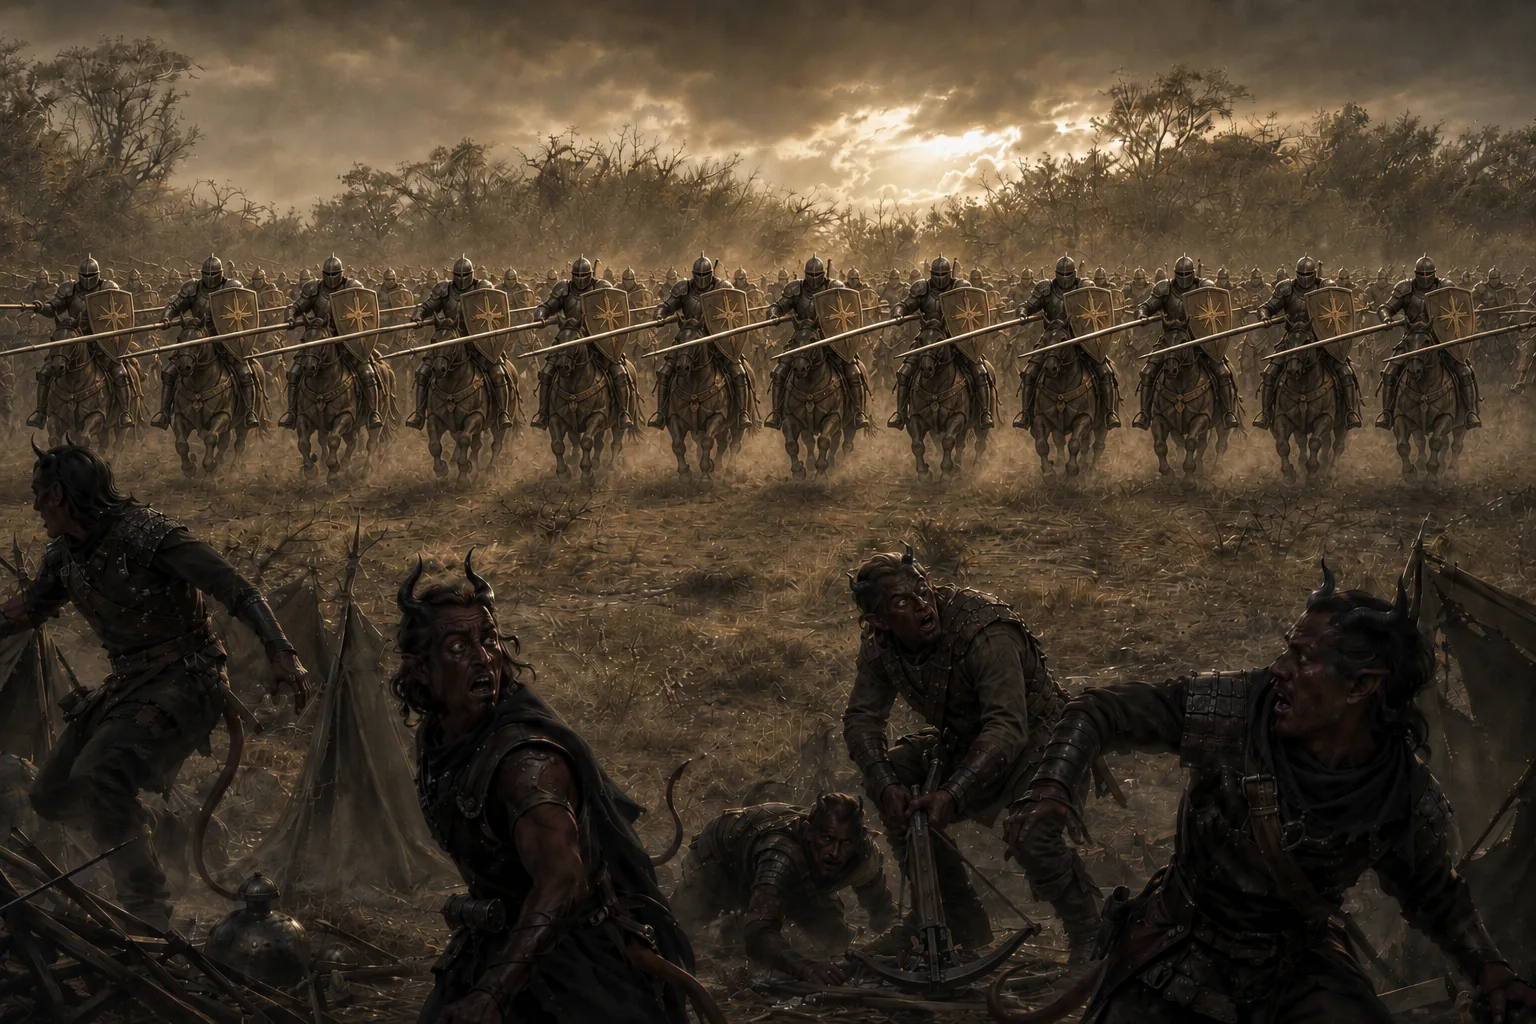
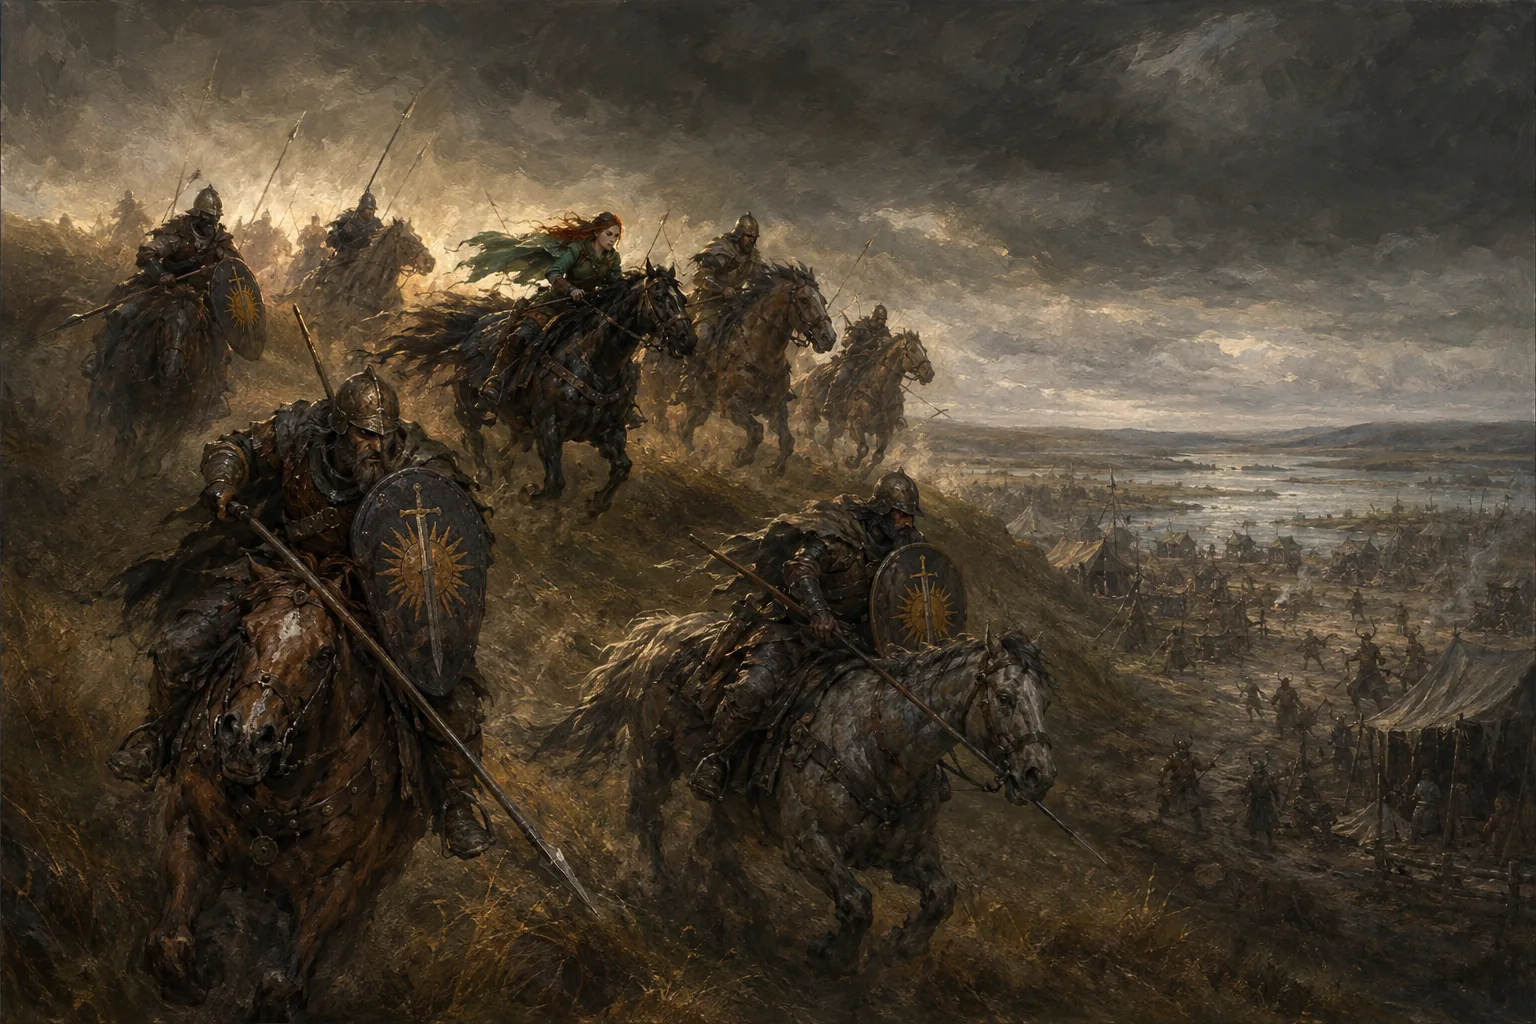
Re-roll the ford charge and put Rabiah back in it
The original was a wall of near-identical knights in one dead-straight
rank spanning the frame, every lance at the same height, and the
commander of the army was not in the picture.

Now eight or nine riders, with the rest of the hundred implied by dust
behind the ridge and lance-points still climbing. Three devices together
break the repetition: an oblique approach so the line recedes into
depth, a hard stagger fore and aft, and per-rider variation of horse
colour, gait and body set. Lances described by joint position rather
than "couched".

Rabiah rides at the crest in Era III kit -- green hooded cloak thrown
back, baldric with the round medallion, uncannily clean against everyone
else's dust -- small in the saddle on a full-sized horse, no lance and no
shield. Rounded human ears confirmed at magnification; shields carry the
sword-and-sun, hilt up.

The moment is the reveal, before contact, with clear ground between the
riders and a camp that is only just turning to look. Lit as grey
overcast with one band of pale gold along the ridge, the camp below in
cold shadow, replacing the old sepia wash.

diff --git a/bible/07-art-reroll-list.md b/bible/07-art-reroll-list.md
@@ -20,42 +20,6 @@ with a counter-example.
 
 ## To do
 
-### `the-taking-of-the-ford.webp` — **the charge reads as wallpaper, and Rabiah is missing from it**
-*Book II — a hundred armoured horse come out of the concealing ground into the tiefling encampment at
-the West Sellen ford. Caption: "Surprise!"*
-
-Matt's notes:
-
-- **Too many paladins in view.** The frame is a wall of near-identical knights running the full width
-  of the picture. Show **eight or ten horse cresting the rise** and let the rest of the hundred be
-  implied — dust, and lance-tips still behind the ridge. A charge is more frightening glimpsed than
-  counted.
-- **The battle line is too flat and repetitive** — one dead-straight rank at even spacing, every
-  rider at the same angle with the same lance at the same height, visibly cloned. Break it in
-  **depth and in terrain**: come at the line **obliquely**, stagger the riders fore and aft, and use
-  the rise itself to break them up so some are already over and driving down while others are still
-  climbing with only heads and lance-points showing. Vary horse colour, gait and the set of each
-  rider.
-- **Put Rabiah back in.** It is her army — *"Not one of Rabiah's people was left on the field"* — and
-  she is nowhere in the picture. Book II is **Era III**: the green hooded cloak thrown back over a
-  high-necked green tunic, the leather baldric with the round dark medallion, neat and uncannily
-  clean. **She is 5'1" and never towers over anyone**, so pin her height and pin the horse: *full-
-  sized working horses, the top of the shoulder level with a tall man's head*, or she will end up on
-  a pony.
-- **Show the moment they break cover over the rise** — the instant of the reveal, before contact.
-  Nothing has landed yet; the tieflings below are only just turning to look. That is the beat the
-  caption is making a joke about, and it is a better picture than the aftermath.
-
-**Two craft notes to carry into the prompt:**
-- **Describe the lances mechanically, not by name.** "Lances couched" came back upright twice and
-  shoulder-carried once on earlier art; what worked was joint positions — *"the butt clamped against
-  the rider's right side just below the armpit, the hand gripping at mid-chest, the shaft crossing
-  diagonally over the horse's neck and out past the left side of its head, the point lower than the
-  grip."* See *Prompt craft* in the `chatgpt-image-gen` skill.
-- **The shields carry bare starbursts.** Crusader devices are **Iomedae's**: a vertical sword, hilt
-  and crossguard at the top, blade hanging below, in front of a blazing sun. All new art carries the
-  sword.
-
 ### `the-inheritors-kiss.webp` — **wrong style, wrong holy symbols, and Radiance should not be in it**
 *Book I, the mythic dream — Iomedae moves through their sleep to thank them and set a kiss on each brow.*
 
@@ -171,6 +135,31 @@ Regenerate to the humble kit, or accept the drift and note it as accepted.
 ---
 
 ## Done
+
+### `the-taking-of-the-ford.webp` — re-rolled Aug 2026
+*Book II, "The Ford Taken". Caption: "Surprise!"*
+
+The original was a wall of cloned knights in one dead-straight rank across the full width, every
+lance at the same angle, and no Rabiah in it at all. Now eight or nine riders only, with the rest of
+the hundred implied by a dust bank behind the ridge and bare lance-points showing above the ridge
+line.
+
+**Three separate devices were needed to kill the repetition, and all three earned their place:** an
+**oblique** front-left approach so the line recedes into depth instead of lying parallel to the
+picture plane; a hard **stagger in depth** (two already driving down the near slope, three at the
+crest, the rest still climbing with only heads and lance-points over the ridge) so no two riders sit
+at the same distance; and **per-rider variation named explicitly** — horse colour, gait, and the set
+of each body. Any one of them alone would probably not have done it.
+
+Rabiah rides at the crest in Era III kit, spotless against everyone else's dust, small in the saddle
+on a full-sized horse, no lance and no shield, both hands on the reins — which also keeps her
+visually distinct from the knights. Ears confirmed rounded at magnification. Shields carry the
+sword-and-sun, checked hilt-up.
+
+**Lit as grey overcast with a single band of pale gold along the ridge line only**, everything below
+in cold shadow. The old plate's all-over sepia-gold wash is a large part of what made it read as
+wallpaper, and a lit ridge over a shadowed camp does the storytelling as well: the riders are in the
+light and the camp has not noticed yet.
 
 ### `the-doors-that-would-not-open.webp` — re-rolled Aug 2026
 *Book II Ch. IX, "The Silencing of the Catapults".*
